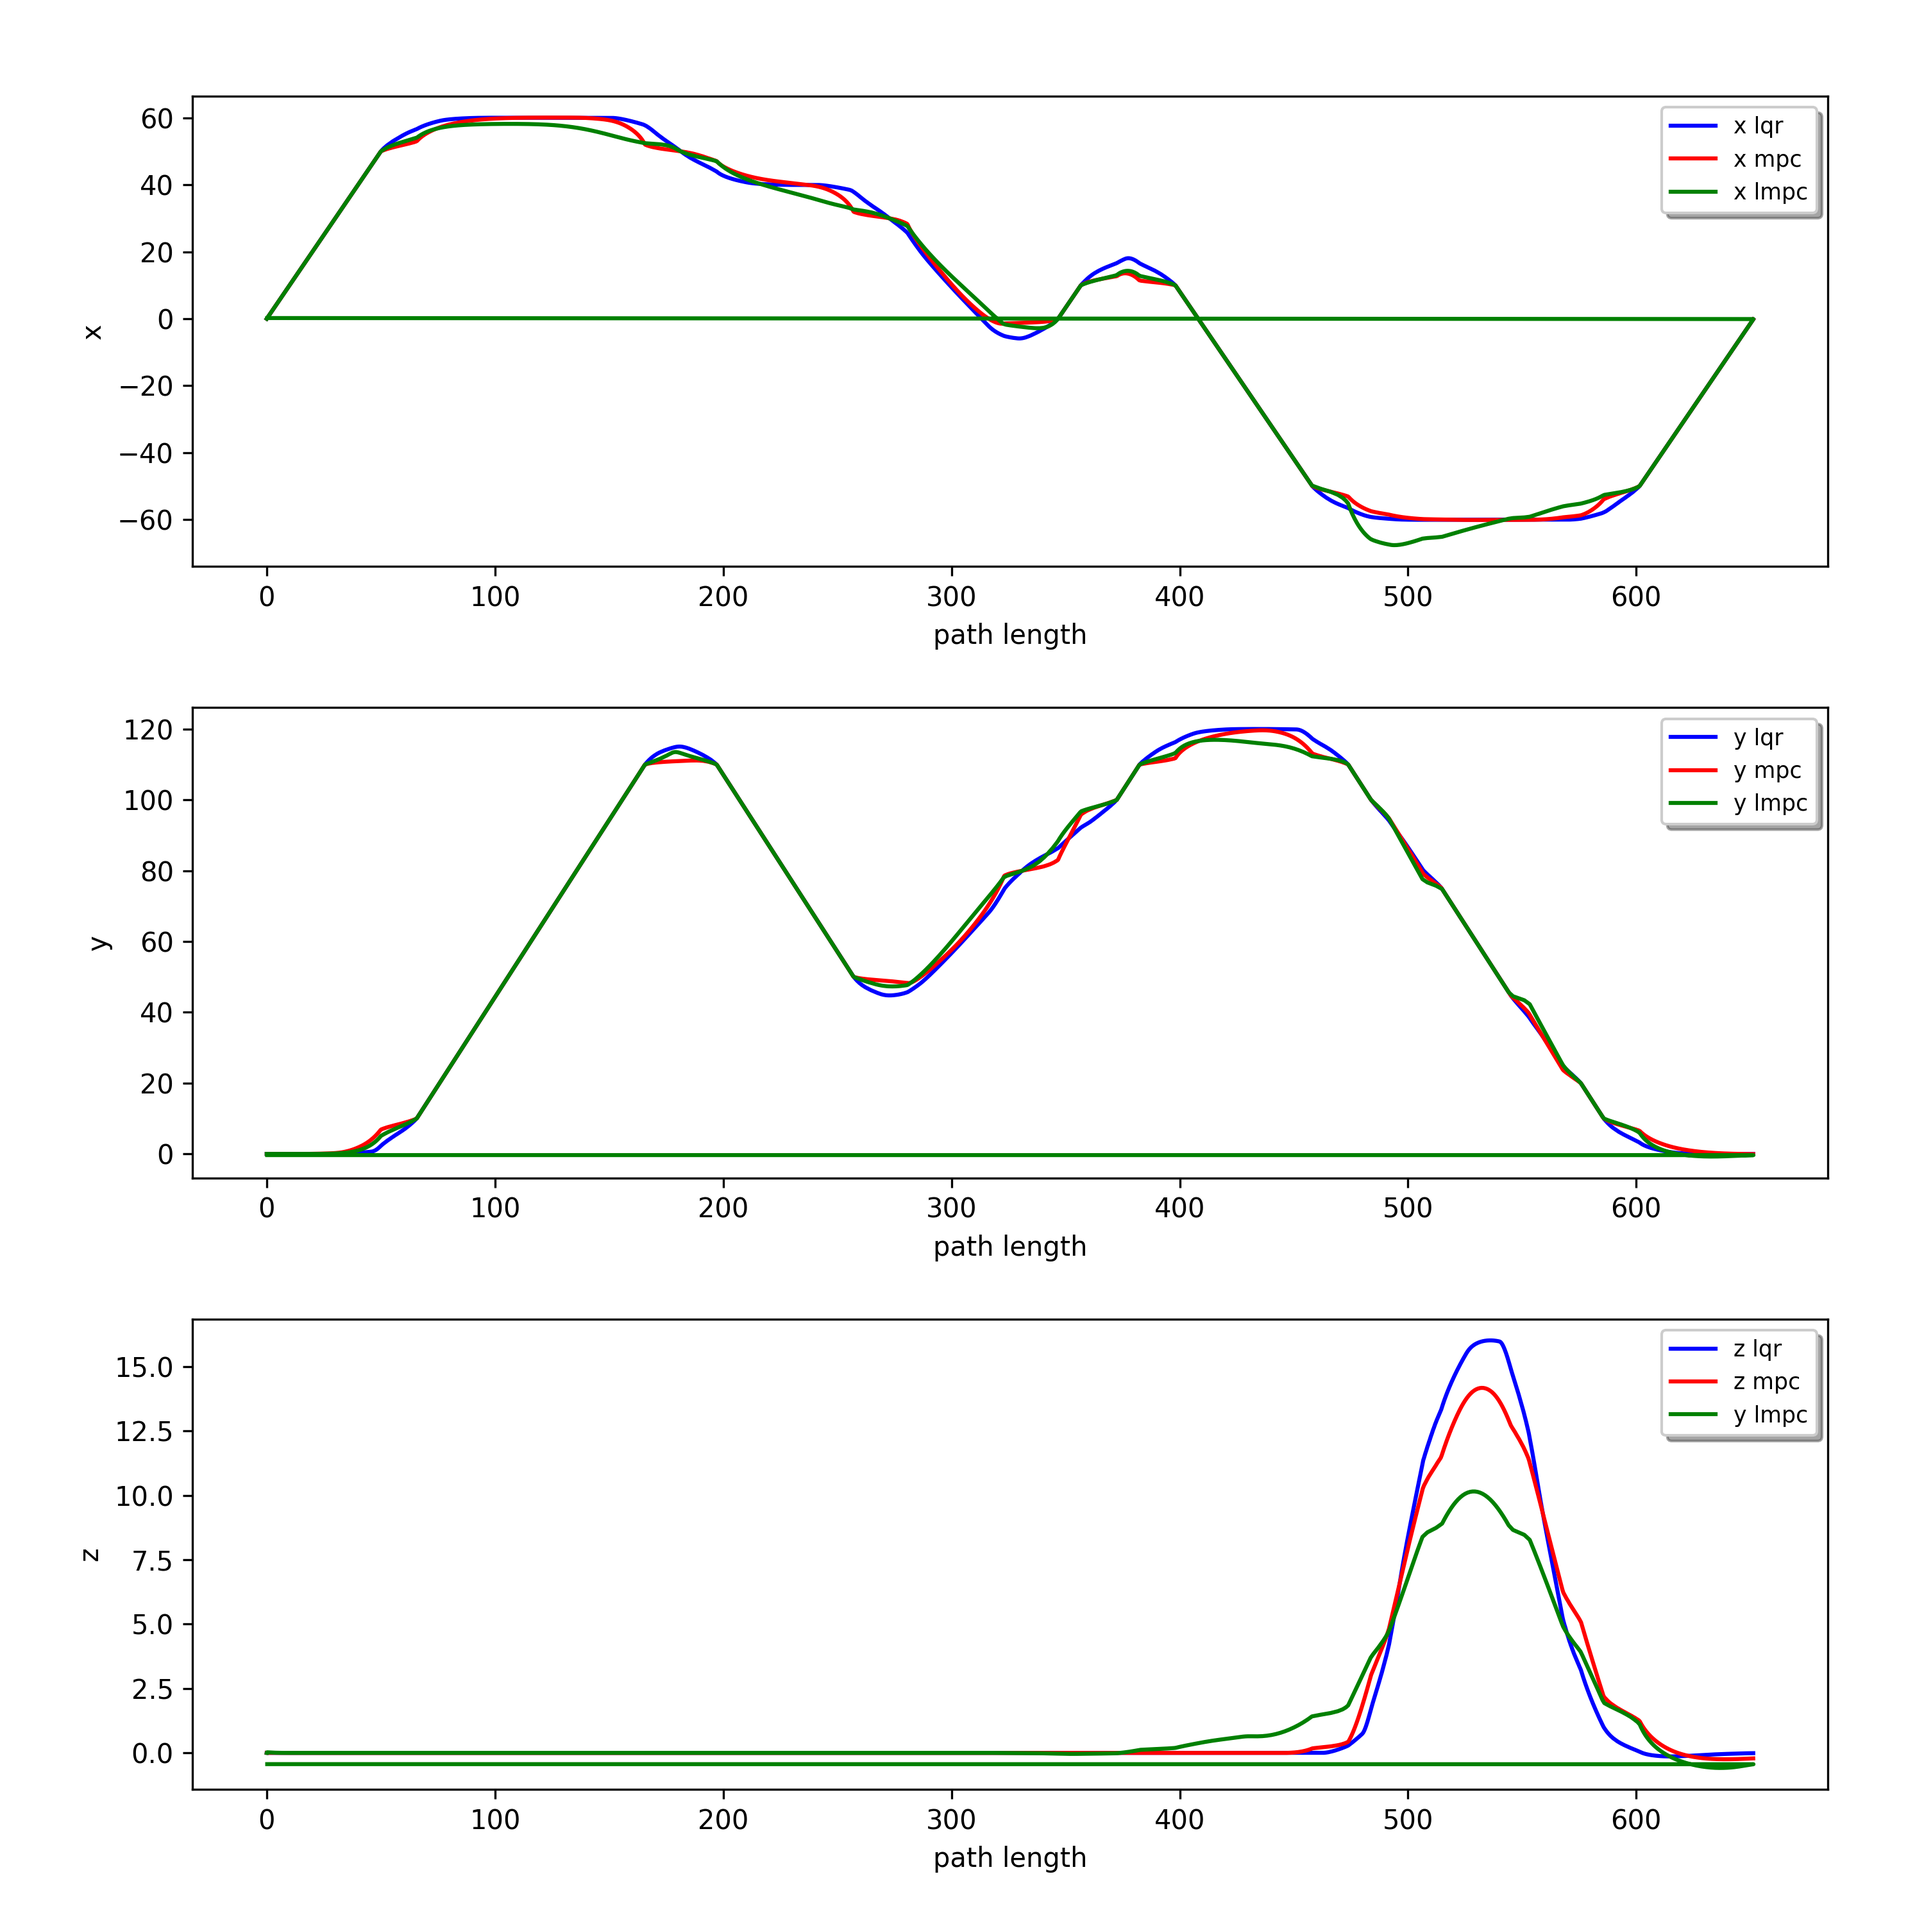
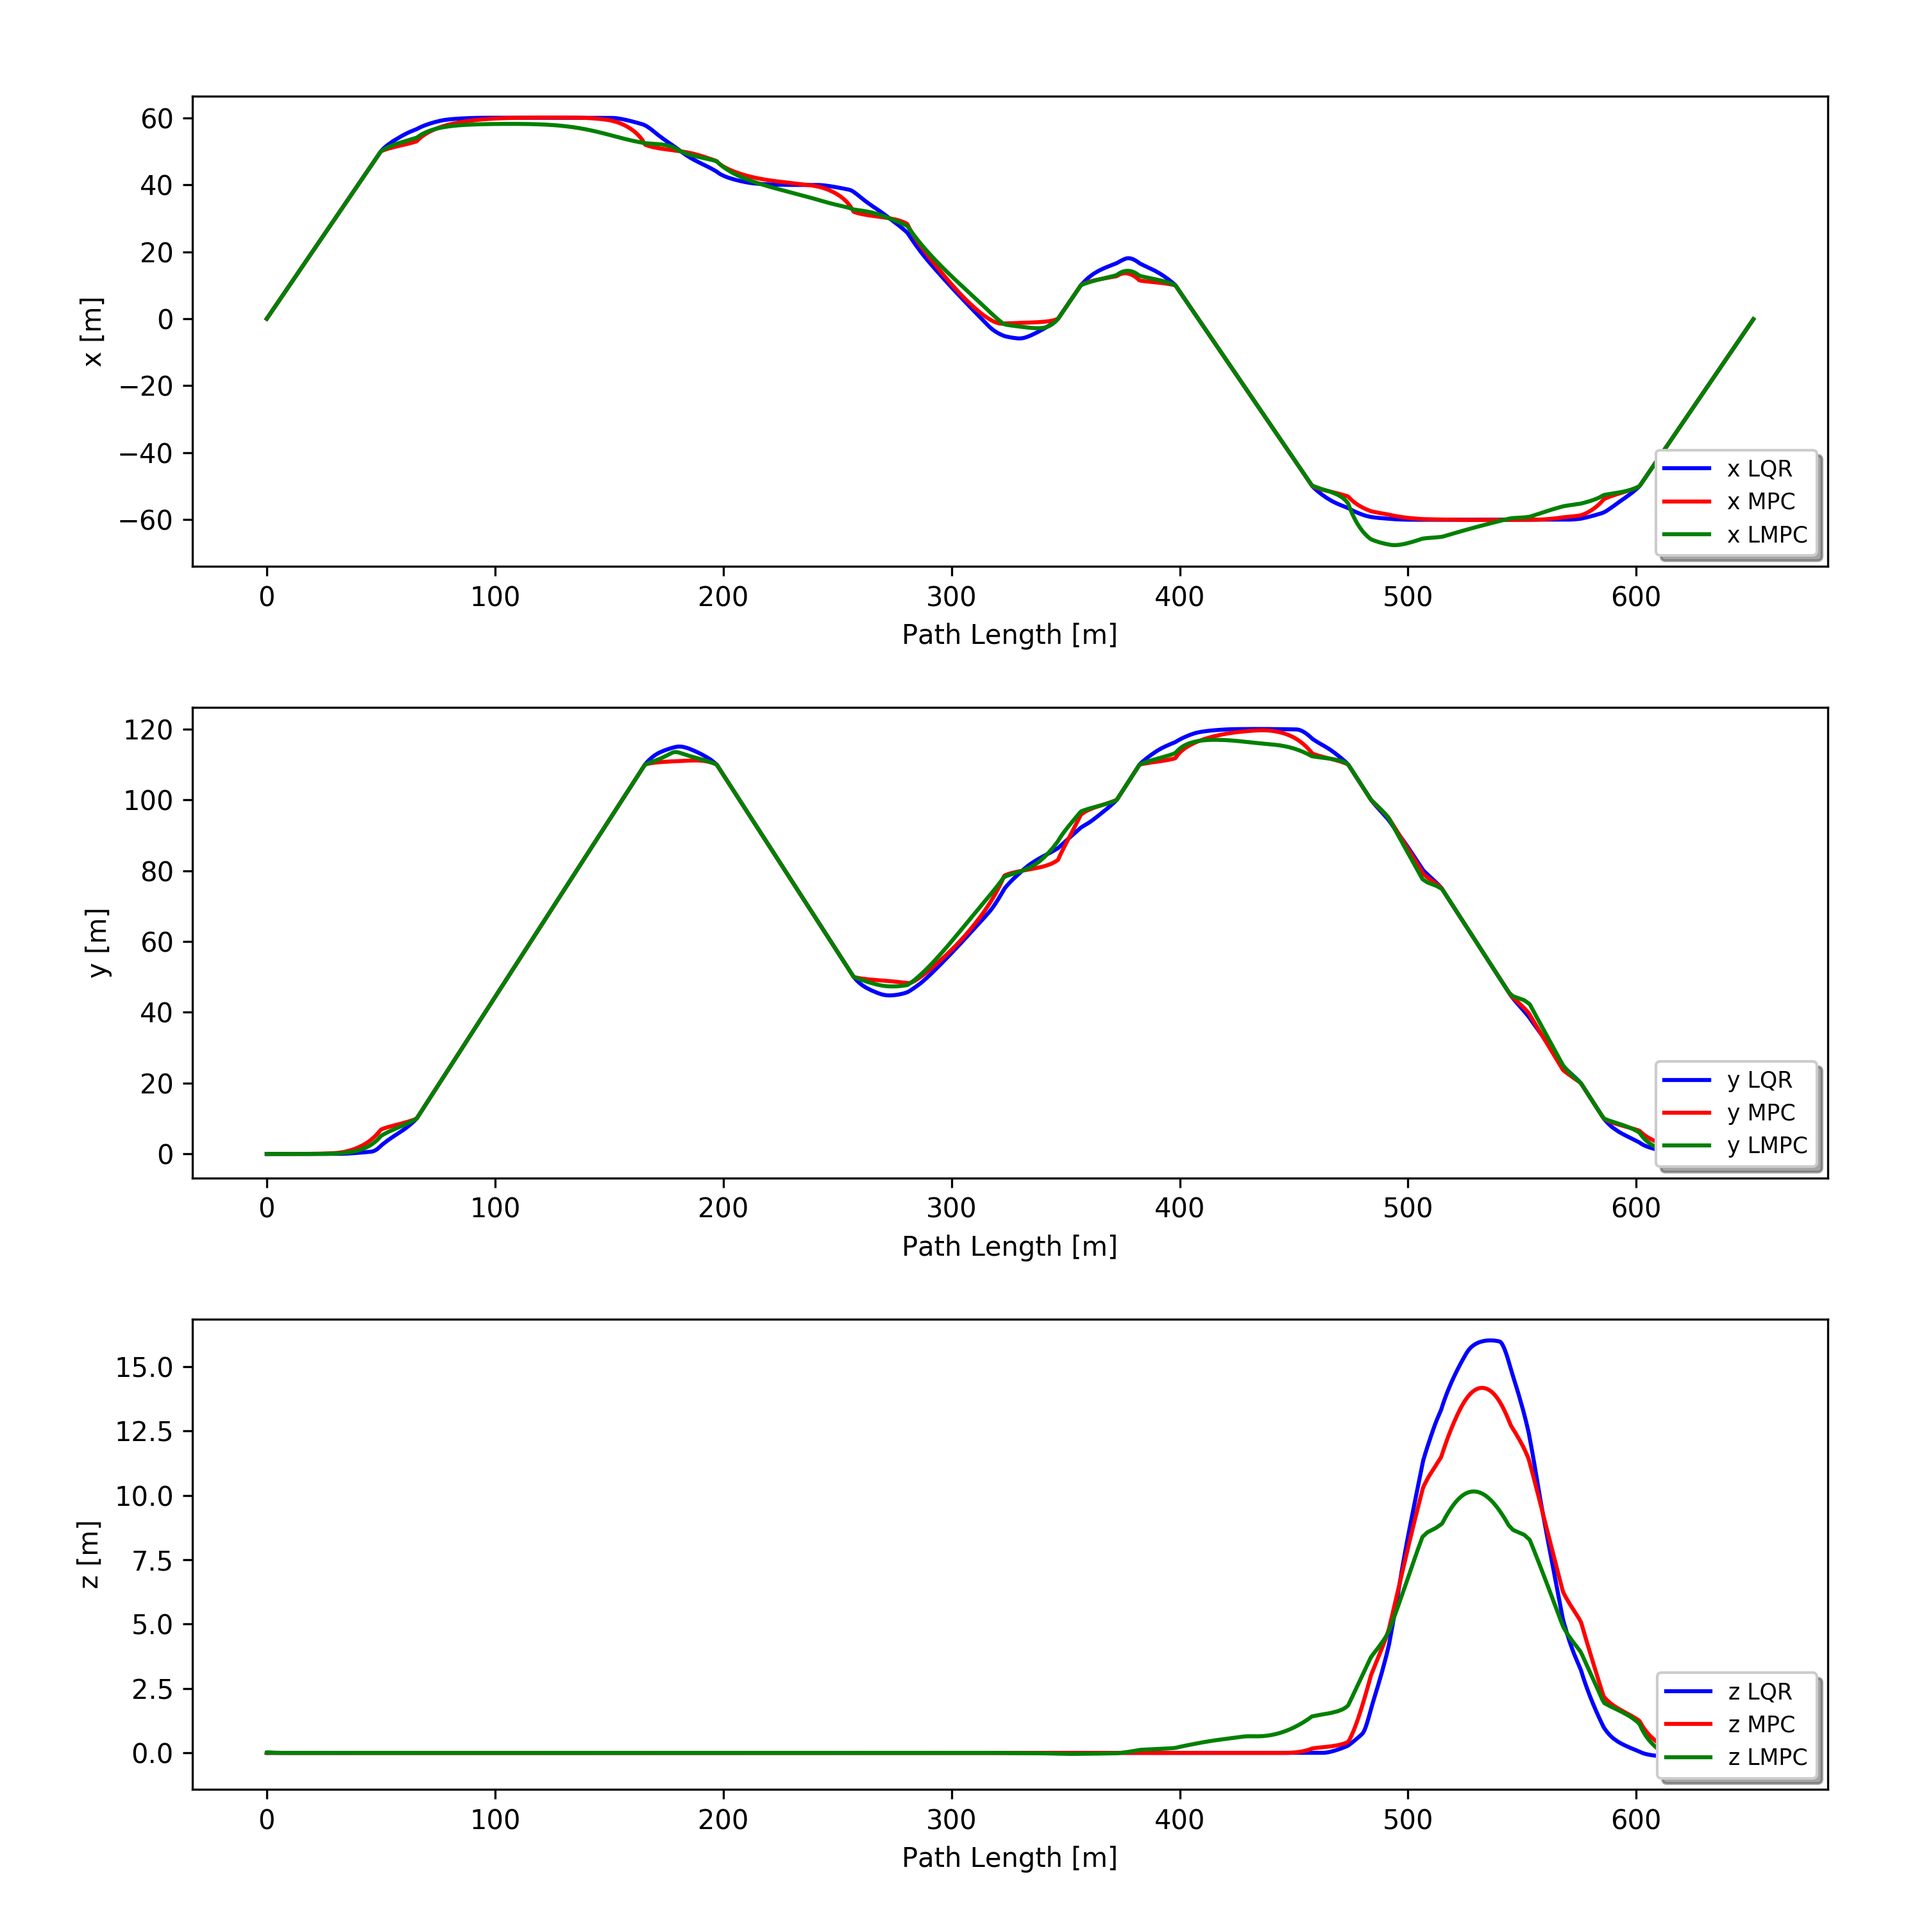
speed and error plots added

diff --git a/drone_racing/sim_data.py b/drone_racing/sim_data.py
@@ -21,7 +21,7 @@ def lap_time_plot(q_lqr,q_mpc,t_lmpc,plt_show):
 	t_lqr = 0.05 * len(q_lqr)
 	t_mpc = 0.05 * len(q_mpc)
 	
-	fig = plt.figure(figsize=(9, 6))
+	fig = plt.figure(figsize=(8, 6))
 	plt.plot(t_lqr, 'go-')
 	plt.plot(t_mpc, 'bo-')
 	plt.plot(t_lmpc, 'ro-')
@@ -30,7 +30,7 @@ def lap_time_plot(q_lqr,q_mpc,t_lmpc,plt_show):
 	plt.xlim(0, 29)
 	#plt.axis('equal')
 	plt.legend(['lqr','mpc','lmpc'], loc= 'upper right')
-	plt.savefig('lap_time_comp.png')
+	plt.savefig('lap_time_comp.png',dpi=300)
 	if plt_show == True:
 		plt.show()
 	#plt.savefig('lap_time_comp.png')
@@ -45,22 +45,31 @@ def full_state_to_pos_state(full_state, controller):
 			n = np.size(x,0)
 			# create reduced state array
 			pos_state = np.zeros((n,3))
+			vel_state = np.zeros((n,3))
 			# reduces state for a lap 
 			if (lap_index == 29):
 				for k in range(n):
 					pos_state[k][0] = x[k,0] # x coordinate
 					pos_state[k][1] = x[k,4] # y coordinate
 					pos_state[k][2] = x[k,8] # z coordinate
+					vel_state[k][0] = x[k,1] # vx coordinate
+					vel_state[k][1] = x[k,5] # vy coordinate
+					vel_state[k][2] = x[k,9] # vz coordinate
+
 			lap_index +=1
 	else:
 		#print(controller)
 		n = np.size(full_state,0)
 		pos_state = np.zeros((n,3))
+		vel_state = np.zeros((n,3))
 		for k in range(n):
 			pos_state[k][0] = full_state[k,0] # x coordinate
 			pos_state[k][1] = full_state[k,4] # y coordinate
 			pos_state[k][2] = full_state[k,8] # z coordinate
-	return pos_state
+			vel_state[k][0] = full_state[k,1] # vx coordinate
+			vel_state[k][1] = full_state[k,5] # vy coordinate
+			vel_state[k][2] = full_state[k,9] # vz coordinate
+	return pos_state, vel_state
 
 def path_length_variables(x_points,track):
 
@@ -75,6 +84,36 @@ def path_length_variables(x_points,track):
 		index += 1
 	return s
 
+# def plot_
+def plot_errors(s_lqr,s_mpc,s_lmpc):
+	fig = plt.figure(figsize=(10,10))
+
+	ax1 = fig.add_subplot(211)
+	ax2 = fig.add_subplot(212)
+	
+	
+	ax1.plot(s_lqr[:,0], s_lqr[:,1], linestyle="--", color="blue",label='Lateral Error LQR')
+	ax1.plot(s_mpc[:,0], s_mpc[:,1], linestyle="--", color="red",label='Lateral Error MPC')
+	ax1.plot(s_lmpc[:,0], s_lmpc[:,1], color="green",label='Lateral Error LMPC')
+
+	ax1.set_ylabel('Lateral Error [m]')
+	ax1.set_xlabel('Path Length [m]')
+	ax1.legend(loc='lower left', shadow=True, fontsize='small')
+
+	ax2.plot(s_lqr[:,0],s_lqr[:,2], linestyle="--",color="blue",label='Vertical Error LQR')
+	ax2.plot(s_mpc[:,0],s_mpc[:,2], linestyle="--",color="red",label='Vertical Error MPC')
+	ax2.plot(s_lmpc[:,0],s_lmpc[:,2], color="green",label='Vertical Error LMPC')
+
+	ax2.set_ylabel('Vertical Error [m]')
+	ax2.set_xlabel('Path Length [m]')
+	ax2.legend(loc='lower left', shadow=True, fontsize='small')
+
+
+
+	#plt.subplots_adjust(top=0.95, bottom=0.07, left=0.10, right=0.95, hspace=0.3,wspace=0.35)
+
+	fig.savefig('error_comp', dpi = 300)
+	#plt.show() 
 
 def trajectory_plot_v_len(x_lqr,x_mpc,x_lmpc,s_lqr,s_mpc, s_lmpc):
 	fig = plt.figure(figsize=(10,10))
@@ -83,37 +122,89 @@ def trajectory_plot_v_len(x_lqr,x_mpc,x_lmpc,s_lqr,s_mpc, s_lmpc):
 	ax2 = fig.add_subplot(312)
 	ax3 = fig.add_subplot(313)
 	
-	ax1.plot(s_lqr[:,0],x_lqr[:,0], color="blue",label='x lqr')
-	ax1.plot(s_mpc[:,0],x_mpc[:,0], color="red",label='x mpc')
-	ax1.plot(s_lmpc[:,0], x_lmpc[:,0], color="green",label='x lmpc')
+	l_lmpc = s_lmpc[:,0]
+	ax1.plot(s_lqr[:,0],x_lqr[:,0], color="blue",label='x LQR')
+	ax1.plot(s_mpc[:,0], x_mpc[:,0], color="red",label='x MPC')
+	ax1.plot(s_lmpc[:,0], x_lmpc[:,0], color="green",label='x LMPC')
 
-	ax1.set_ylabel('x')
-	ax1.set_xlabel('path length')
-	ax1.legend(loc='upper right', shadow=True, fontsize='small')
+	ax1.set_ylabel('x [m]')
+	ax1.set_xlabel('Path Length [m]')
+	ax1.legend(loc='lower right', shadow=True, fontsize='small')
 
-	ax2.plot(s_lqr[:,0],x_lqr[:,1], color="blue",label='y lqr')
-	ax2.plot(s_mpc[:,0],x_mpc[:,1], color="red",label='y mpc')
-	ax2.plot(s_lmpc[:,0],x_lmpc[:,1], color="green",label='y lmpc')
+	ax2.plot(s_lqr[:,0],x_lqr[:,1], color="blue",label='y LQR')
+	ax2.plot(s_mpc[:,0],x_mpc[:,1], color="red",label='y MPC')
+	ax2.plot(s_lmpc[:,0],x_lmpc[:,1], color="green",label='y LMPC')
 
-	ax2.set_ylabel('y')
-	ax2.set_xlabel('path length')
-	ax2.legend(loc='upper right', shadow=True, fontsize='small')
+	ax2.set_ylabel('y [m]')
+	ax2.set_xlabel('Path Length [m]')
+	ax2.legend(loc='lower right', shadow=True, fontsize='small')
 
-	ax3.plot(s_lqr[:,0],x_lqr[:,2], color="blue",label='z lqr')
-	ax3.plot(s_mpc[:,0],x_mpc[:,2], color="red",label='z mpc')
-	ax3.plot(s_lmpc[:,0],x_lmpc[:,2], color="green",label='y lmpc')
+	ax3.plot(s_lqr[:,0],x_lqr[:,2], color="blue",label='z LQR')
+	ax3.plot(s_mpc[:,0],x_mpc[:,2], color="red",label='z MPC')
+	ax3.plot(s_lmpc[:,0],x_lmpc[:,2], color="green",label='z LMPC')
 
-	ax3.set_ylabel('z')
-	ax3.set_xlabel('path length')
-	ax3.legend(loc='upper right', shadow=True, fontsize='small')
+	ax3.set_ylabel('z [m]')
+	ax3.set_xlabel('Path Length [m]')
+	ax3.legend(loc='lower right', shadow=True, fontsize='small')
 
 	plt.subplots_adjust(top=0.95, bottom=0.07, left=0.10, right=0.95, hspace=0.3,wspace=0.35)
 
 	fig.savefig('controller_track_comp', dpi = 300)
-	plt.show()
+	#plt.show() 
+
+def velocity_plot_v_len(v_lqr,v_mpc,v_lmpc,s_lqr,s_mpc, s_lmpc):
+	fig = plt.figure(figsize=(10,10))
+
+	ax1 = fig.add_subplot(311)
+	ax2 = fig.add_subplot(312)
+	ax3 = fig.add_subplot(313)
+	
+	l_lmpc = s_lmpc[:,0]
+	ax1.plot(s_lqr[:,0], v_lqr[:,0], color="blue",label='vx LQR')
+	ax1.plot(s_mpc[:,0], v_mpc[:,0], color="red",label='vx MPC')
+	ax1.plot(s_lmpc[:,0], v_lmpc[:,0], color="green",label='vx LMPC')
+
+	ax1.set_ylabel('vx [m/s]')
+	ax1.set_xlabel('Path Length [m]')
+	ax1.legend(loc='lower left', shadow=True, fontsize='small')
+
+	ax2.plot(s_lqr[:,0],v_lqr[:,1], color="blue",label='vy LQR')
+	ax2.plot(s_mpc[:,0],v_mpc[:,1], color="red",label='vy MPC')
+	ax2.plot(s_lmpc[:,0],v_lmpc[:,1], color="green",label='vy LMPC')
+
+	ax2.set_ylabel('vy [m/s]')
+	ax2.set_xlabel('Path Length [m]')
+	ax2.legend(loc='lower left', shadow=True, fontsize='small')
+
+	ax3.plot(s_lqr[:,0],v_lqr[:,2], color="blue",label='vz LQR')
+	ax3.plot(s_mpc[:,0],v_mpc[:,2], color="red",label='vz MPC')
+	ax3.plot(s_lmpc[:,0],v_lmpc[:,2], color="green",label='vz LMPC')
+
+	ax3.set_ylabel('vz [m/s]')
+	ax3.set_xlabel('Path Length [m]')
+	ax3.legend(loc='lower left', shadow=True, fontsize='small')
+
+	plt.subplots_adjust(top=0.95, bottom=0.07, left=0.10, right=0.95, hspace=0.3,wspace=0.35)
+
+	fig.savefig('velocity_track_comp', dpi = 300)
 
 
 
+	#plt.show()
+
+def speed_plot_v_len(v_lqr,v_mpc,v_lmpc,s_lqr,s_mpc, s_lmpc):
+	fig = plt.figure(figsize=(10,10))
+	ax1 = fig.add_subplot(111)
+
+	ax1.plot(s_lqr[:,0],np.sqrt(v_lqr[:,0]**2 + v_lqr[:,1]**2 + v_lqr[:,2]**2) , color="blue",label='vz LQR')
+	ax1.plot(s_mpc[:,0],np.sqrt(v_mpc[:,0]**2 + v_mpc[:,1]**2 + v_mpc[:,2]**2), color="red",label='vz MPC')
+	ax1.plot(s_lmpc[:,0],np.sqrt(v_lmpc[:,0]**2 + v_lmpc[:,1]**2 + v_lmpc[:,2]**2), color="green",label='vz LMPC')
+	ax1.set_ylabel('Speed [m/s]')
+	ax1.set_xlabel('Path Length [m]')
+	ax1.legend(loc='upper left', shadow=True, fontsize='small')
+
+	plt.subplots_adjust(top=0.95, bottom=0.07, left=0.10, right=0.95, hspace=0.3,wspace=0.35)
+	fig.savefig('speed_track_comp', dpi = 300)
 
 def main():	
 	track = dt.DroneTrack()
@@ -138,17 +229,26 @@ def main():
 	q_lqr  = data_lqr['q']
 	#t_lqr = 0.05 * len(q_lqr)
 
-	x_lmpc_reduced = full_state_to_pos_state(x_lmpc,"LMPC")
-	x_mpc_reduced = full_state_to_pos_state(x_mpc,"MPC")
-	x_lqr_reduced = full_state_to_pos_state(x_lqr,"LQR")
+	x_lmpc_reduced, v_lmpc_reduced = full_state_to_pos_state(x_lmpc,"LMPC")
+	x_mpc_reduced, v_mpc_reduced = full_state_to_pos_state(x_mpc,"MPC")
+	x_lqr_reduced, v_lqr_reduced = full_state_to_pos_state(x_lqr,"LQR")
 	
 	s_lmpc = path_length_variables(x_lmpc_reduced,track)
+	n = np.size(s_lmpc, 0)
+	# print(n)
+	s_lmpc = s_lmpc[0:n-1,:]
+	x_lmpc_reduced = x_lmpc_reduced[0:n-1,:]
+	v_lmpc_reduced = v_lmpc_reduced[0:n-1,:]
+	# s_lmpc_aux = s_lmpc[0:n-1,:]#651.3
+	# print(s_lmpc_aux[n-2][0])
 	s_mpc = path_length_variables(x_mpc_reduced, track)
 	s_lqr = path_length_variables(x_lqr_reduced, track)
 
+	speed_plot_v_len(v_lqr_reduced,v_mpc_reduced,v_lmpc_reduced,s_lqr,s_mpc, s_lmpc)
+	velocity_plot_v_len(v_lqr_reduced,v_mpc_reduced,v_lmpc_reduced,s_lqr,s_mpc, s_lmpc)
 	trajectory_plot_v_len(x_lqr_reduced,x_mpc_reduced,x_lmpc_reduced,s_lqr,s_mpc, s_lmpc)
-
-	#lap_time_plot(q_lqr, q_mpc, t_lmpc, False)
+	plot_errors(s_lqr,s_mpc,s_lmpc)
+	lap_time_plot(q_lqr, q_mpc, t_lmpc, False)
 
 if __name__ == '__main__':
     main()

diff --git a/drone_racing/main.py b/drone_racing/main.py
@@ -1,10 +1,10 @@
 import numpy as np
 import scipy
 from matplotlib import pyplot as plt
-# import matplotlib 
-# matplotlib.use('TkAgg')
-# import matplotlib.pyplot as plt
-import matplotlib.animation as animation
+import matplotlib 
+matplotlib.use('TkAgg')
+import matplotlib.pyplot as plt
+#import matplotlib.animation as animation
 import pdb
 
 from sim import drone_simulator
@@ -736,7 +736,7 @@ def main():
     else:
         lqr_raceline.p_window = 70
         lqr_raceline.window = 20
-        x_mpc, u_mpc, q_mpc = run_MPC(drone, track, lqr_raceline, show_plots = False, show_stats = False)
+        x_mpc, u_mpc, q_mpc = run_MPC(drone, track, lqr_raceline, show_plots = False, show_stats = True)
         np.savez('mpc_data.npz', x  = x_mpc, u = u_mpc, q = q_mpc)
     
     lmpc_laps = 30
@@ -767,7 +767,7 @@ def main():
             
         np.savez('lmpc_data.npz', x  = x_lmpc, u = u_lmpc, q = q_lmpc, t = t_lmpc)
     
-    run_LMPC(drone, track, x_lmpc[-1], u_lmpc[-1], q_lmpc[-1], show_plots = False, show_stats = False, FPV = False)
+    run_LMPC(drone, track, x_lmpc[-1], u_lmpc[-1], q_lmpc[-1], show_plots = False, show_stats = True, FPV = False)
             
     print('LQR Lap Time: %0.2f' % (0.05 * len(q_lqr)))
     print('MPC Lap Time: %0.2f' % (0.05 * len(q_mpc)))
